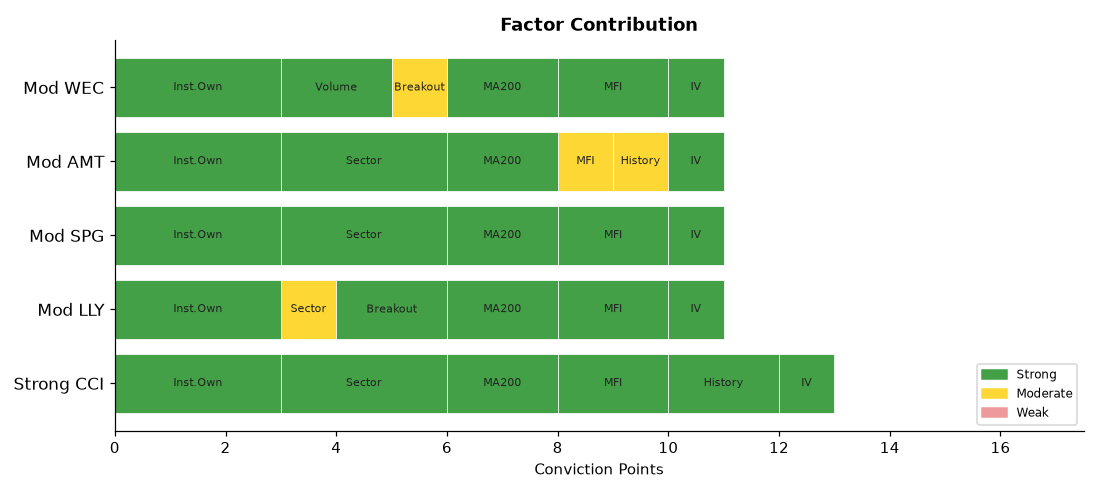
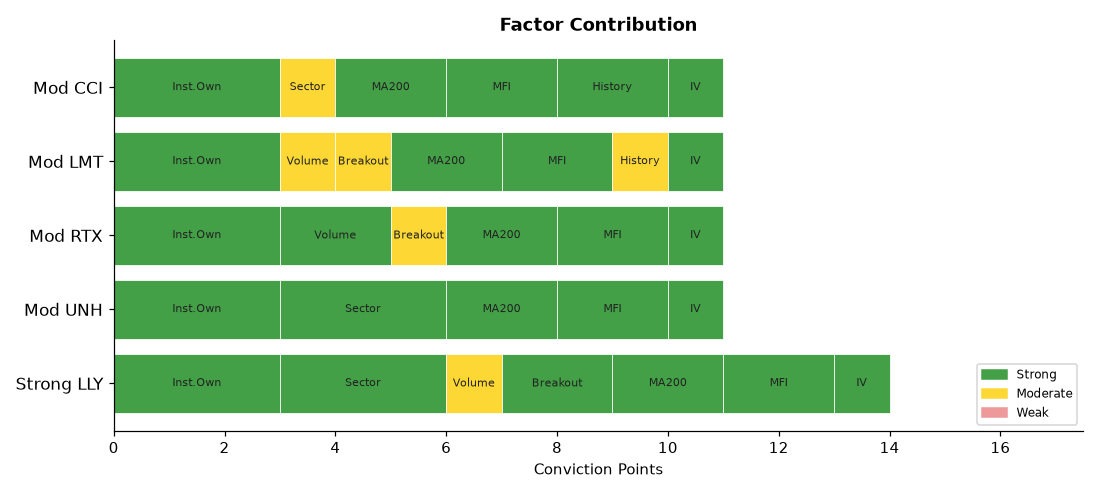
deploy: b7fadf5b06deb90e7ebb92f278722414bdd9750d

diff --git a/index.html b/index.html
@@ -4,7 +4,7 @@
   <meta charset="UTF-8">
   <meta name="viewport" content="width=device-width,initial-scale=1">
   <meta http-equiv="Cache-Control" content="no-cache,no-store,must-revalidate">
-  <title>Stock Breakout Screener — 2026-10-29 19:45</title>
+  <title>Stock Breakout Screener — 2026-10-29 21:42</title>
   <style>
     *{box-sizing:border-box;margin:0;padding:0}
     body{font-family:'Segoe UI',Arial,sans-serif;background:#f0f2f5;
@@ -34,7 +34,7 @@
 
 <div class="hdr">
   <h1>📈 Stock Breakout Screener</h1>
-  <p>Updated: 2026-10-29 19:45 UTC &nbsp;·&nbsp; Phase: Regular Market Hours &nbsp;·&nbsp;
+  <p>Updated: 2026-10-29 21:42 UTC &nbsp;·&nbsp; Phase: After-Hours (4:00–8:00 PM ET) &nbsp;·&nbsp;
      129 stocks screened &nbsp;·&nbsp; Top 5 by conviction score</p>
 </div>
 
@@ -60,16 +60,16 @@
           <div style="display:flex;align-items:center;gap:10px;
                       flex-wrap:wrap;margin-bottom:10px">
             <span style="font-size:22px">🟢</span>
-            <span style="font-size:19px;font-weight:700">1. CCI</span>
-            <span style="font-size:12px;color:#666">Real Estate</span>
+            <span style="font-size:19px;font-weight:700">1. LLY</span>
+            <span style="font-size:12px;color:#666">Healthcare</span>
             <span style="margin-left:auto;background:#1a237e;color:#fff;
                          padding:3px 12px;border-radius:12px;
                          font-size:13px;font-weight:600">
-              13/17
+              14/17
             </span>
           </div>
           <ul style="margin:0;padding-left:18px;font-size:13px;
-                     color:#333;line-height:1.8"><li style="margin:5px 0"><span style="background:#ffebee;color:#b71c1c;padding:2px 7px;border-radius:4px;font-size:11px;">❌</span> Volume: <b>0.7× average</b> — Above-average activity</li><li style="margin:5px 0"><span style="background:#ffebee;color:#b71c1c;padding:2px 7px;border-radius:4px;font-size:11px;">❌</span> Candle: close <b>$89.20</b> vs open <b>$89.00</b> (+0.2%) — regular market close</li><li style="margin:5px 0"><span style="background:#e8f5e9;color:#2e7d32;padding:2px 7px;border-radius:4px;font-size:11px;">✅</span> 200-Day MA: price <b>$89.20</b> vs MA <b>$79.06</b> — <b>✅ Above</b> long-term trend</li><li style="margin:5px 0"><span style="background:#e8f5e9;color:#2e7d32;padding:2px 7px;border-radius:4px;font-size:11px;">✅</span> Inst. ownership: <b>101.9%</b> · MFI: <b>60.0</b> · Market cap: <b>$38.0B</b></li><li style="margin:5px 0"><span style="background:#e8f5e9;color:#2e7d32;padding:2px 7px;border-radius:4px;font-size:11px;">✅</span> Last similar breakout: <b>Oct 09, 2026</b> → <b>+7.9%</b> over 10 trading days</li></ul>
+                     color:#333;line-height:1.8"><li style="margin:5px 0"><span style="background:#fffde7;color:#f57f17;padding:2px 7px;border-radius:4px;font-size:11px;">⚠</span> Volume: <b>1.6× average</b> — Above-average activity</li><li style="margin:5px 0"><span style="background:#e8f5e9;color:#2e7d32;padding:2px 7px;border-radius:4px;font-size:11px;">✅</span> Candle: close <b>$1373.70</b> vs open <b>$1332.73</b> (+3.1%) — regular market close</li><li style="margin:5px 0"><span style="background:#e8f5e9;color:#2e7d32;padding:2px 7px;border-radius:4px;font-size:11px;">✅</span> 200-Day MA: price <b>$1373.70</b> vs MA <b>$1151.21</b> — <b>✅ Above</b> long-term trend</li><li style="margin:5px 0"><span style="background:#e8f5e9;color:#2e7d32;padding:2px 7px;border-radius:4px;font-size:11px;">✅</span> Inst. ownership: <b>85.4%</b> · MFI: <b>71.4</b> · Market cap: <b>$1224.5B</b></li><li style="margin:5px 0"><span style="background:#ffebee;color:#b71c1c;padding:2px 7px;border-radius:4px;font-size:11px;">❌</span> Last similar breakout: <b>Jun 26, 2026</b> → <b>-2.2%</b> over 10 trading days</li></ul>
         </div>
         <div style="background:#fff;border:1px solid #ddd;border-radius:10px;
                     padding:16px 20px;margin-bottom:12px;
@@ -77,7 +77,7 @@
           <div style="display:flex;align-items:center;gap:10px;
                       flex-wrap:wrap;margin-bottom:10px">
             <span style="font-size:22px">🟡</span>
-            <span style="font-size:19px;font-weight:700">2. LLY</span>
+            <span style="font-size:19px;font-weight:700">2. UNH</span>
             <span style="font-size:12px;color:#666">Healthcare</span>
             <span style="margin-left:auto;background:#1a237e;color:#fff;
                          padding:3px 12px;border-radius:12px;
@@ -86,7 +86,7 @@
             </span>
           </div>
           <ul style="margin:0;padding-left:18px;font-size:13px;
-                     color:#333;line-height:1.8"><li style="margin:5px 0"><span style="background:#ffebee;color:#b71c1c;padding:2px 7px;border-radius:4px;font-size:11px;">❌</span> Volume: <b>1.2× average</b> — Above-average activity</li><li style="margin:5px 0"><span style="background:#e8f5e9;color:#2e7d32;padding:2px 7px;border-radius:4px;font-size:11px;">✅</span> Candle: close <b>$1373.16</b> vs open <b>$1332.73</b> (+3.0%) — regular market close</li><li style="margin:5px 0"><span style="background:#e8f5e9;color:#2e7d32;padding:2px 7px;border-radius:4px;font-size:11px;">✅</span> 200-Day MA: price <b>$1373.16</b> vs MA <b>$1148.84</b> — <b>✅ Above</b> long-term trend</li><li style="margin:5px 0"><span style="background:#e8f5e9;color:#2e7d32;padding:2px 7px;border-radius:4px;font-size:11px;">✅</span> Inst. ownership: <b>85.4%</b> · MFI: <b>70.5</b> · Market cap: <b>$1223.5B</b></li><li style="margin:5px 0"><span style="background:#ffebee;color:#b71c1c;padding:2px 7px;border-radius:4px;font-size:11px;">❌</span> Last similar breakout: <b>Jun 26, 2026</b> → <b>-2.2%</b> over 10 trading days</li></ul>
+                     color:#333;line-height:1.8"><li style="margin:5px 0"><span style="background:#ffebee;color:#b71c1c;padding:2px 7px;border-radius:4px;font-size:11px;">❌</span> Volume: <b>0.7× average</b> — Above-average activity</li><li style="margin:5px 0"><span style="background:#ffebee;color:#b71c1c;padding:2px 7px;border-radius:4px;font-size:11px;">❌</span> Candle: close <b>$410.91</b> vs open <b>$413.71</b> (-0.7%) — regular market close</li><li style="margin:5px 0"><span style="background:#e8f5e9;color:#2e7d32;padding:2px 7px;border-radius:4px;font-size:11px;">✅</span> 200-Day MA: price <b>$410.91</b> vs MA <b>$395.97</b> — <b>✅ Above</b> long-term trend</li><li style="margin:5px 0"><span style="background:#e8f5e9;color:#2e7d32;padding:2px 7px;border-radius:4px;font-size:11px;">✅</span> Inst. ownership: <b>89.6%</b> · MFI: <b>64.8</b> · Market cap: <b>$368.8B</b></li></ul>
         </div>
         <div style="background:#fff;border:1px solid #ddd;border-radius:10px;
                     padding:16px 20px;margin-bottom:12px;
@@ -94,7 +94,41 @@
           <div style="display:flex;align-items:center;gap:10px;
                       flex-wrap:wrap;margin-bottom:10px">
             <span style="font-size:22px">🟡</span>
-            <span style="font-size:19px;font-weight:700">3. SPG</span>
+            <span style="font-size:19px;font-weight:700">3. RTX</span>
+            <span style="font-size:12px;color:#666">Industrials</span>
+            <span style="margin-left:auto;background:#1a237e;color:#fff;
+                         padding:3px 12px;border-radius:12px;
+                         font-size:13px;font-weight:600">
+              11/17
+            </span>
+          </div>
+          <ul style="margin:0;padding-left:18px;font-size:13px;
+                     color:#333;line-height:1.8"><li style="margin:5px 0"><span style="background:#e8f5e9;color:#2e7d32;padding:2px 7px;border-radius:4px;font-size:11px;">✅</span> Volume: <b>2.3× average</b> — 🔥 Strong unusual activity</li><li style="margin:5px 0"><span style="background:#fffde7;color:#f57f17;padding:2px 7px;border-radius:4px;font-size:11px;">⚠</span> Candle: close <b>$199.40</b> vs open <b>$198.79</b> (+0.3%) — regular market close</li><li style="margin:5px 0"><span style="background:#e8f5e9;color:#2e7d32;padding:2px 7px;border-radius:4px;font-size:11px;">✅</span> 200-Day MA: price <b>$199.40</b> vs MA <b>$193.38</b> — <b>✅ Above</b> long-term trend</li><li style="margin:5px 0"><span style="background:#e8f5e9;color:#2e7d32;padding:2px 7px;border-radius:4px;font-size:11px;">✅</span> Inst. ownership: <b>81.6%</b> · MFI: <b>75.5</b> · Market cap: <b>$269.1B</b></li></ul>
+        </div>
+        <div style="background:#fff;border:1px solid #ddd;border-radius:10px;
+                    padding:16px 20px;margin-bottom:12px;
+                    box-shadow:0 2px 6px rgba(0,0,0,.07)">
+          <div style="display:flex;align-items:center;gap:10px;
+                      flex-wrap:wrap;margin-bottom:10px">
+            <span style="font-size:22px">🟡</span>
+            <span style="font-size:19px;font-weight:700">4. LMT</span>
+            <span style="font-size:12px;color:#666">Industrials</span>
+            <span style="margin-left:auto;background:#1a237e;color:#fff;
+                         padding:3px 12px;border-radius:12px;
+                         font-size:13px;font-weight:600">
+              11/17
+            </span>
+          </div>
+          <ul style="margin:0;padding-left:18px;font-size:13px;
+                     color:#333;line-height:1.8"><li style="margin:5px 0"><span style="background:#fffde7;color:#f57f17;padding:2px 7px;border-radius:4px;font-size:11px;">⚠</span> Volume: <b>1.6× average</b> — Above-average activity</li><li style="margin:5px 0"><span style="background:#fffde7;color:#f57f17;padding:2px 7px;border-radius:4px;font-size:11px;">⚠</span> Candle: close <b>$643.59</b> vs open <b>$639.66</b> (+0.6%) — regular market close</li><li style="margin:5px 0"><span style="background:#e8f5e9;color:#2e7d32;padding:2px 7px;border-radius:4px;font-size:11px;">✅</span> 200-Day MA: price <b>$643.59</b> vs MA <b>$536.89</b> — <b>✅ Above</b> long-term trend</li><li style="margin:5px 0"><span style="background:#e8f5e9;color:#2e7d32;padding:2px 7px;border-radius:4px;font-size:11px;">✅</span> Inst. ownership: <b>76.8%</b> · MFI: <b>81.0</b> · Market cap: <b>$148.7B</b></li><li style="margin:5px 0"><span style="background:#fffde7;color:#f57f17;padding:2px 7px;border-radius:4px;font-size:11px;">⚠</span> Last similar breakout: <b>Oct 26, 2026</b> → <b>+1.3%</b> over 10 trading days</li></ul>
+        </div>
+        <div style="background:#fff;border:1px solid #ddd;border-radius:10px;
+                    padding:16px 20px;margin-bottom:12px;
+                    box-shadow:0 2px 6px rgba(0,0,0,.07)">
+          <div style="display:flex;align-items:center;gap:10px;
+                      flex-wrap:wrap;margin-bottom:10px">
+            <span style="font-size:22px">🟡</span>
+            <span style="font-size:19px;font-weight:700">5. CCI</span>
             <span style="font-size:12px;color:#666">Real Estate</span>
             <span style="margin-left:auto;background:#1a237e;color:#fff;
                          padding:3px 12px;border-radius:12px;
@@ -103,41 +137,7 @@
             </span>
           </div>
           <ul style="margin:0;padding-left:18px;font-size:13px;
-                     color:#333;line-height:1.8"><li style="margin:5px 0"><span style="background:#ffebee;color:#b71c1c;padding:2px 7px;border-radius:4px;font-size:11px;">❌</span> Volume: <b>0.3× average</b> — Above-average activity</li><li style="margin:5px 0"><span style="background:#ffebee;color:#b71c1c;padding:2px 7px;border-radius:4px;font-size:11px;">❌</span> Candle: close <b>$216.43</b> vs open <b>$214.23</b> (+1.0%) — regular market close</li><li style="margin:5px 0"><span style="background:#e8f5e9;color:#2e7d32;padding:2px 7px;border-radius:4px;font-size:11px;">✅</span> 200-Day MA: price <b>$216.43</b> vs MA <b>$210.43</b> — <b>✅ Above</b> long-term trend</li><li style="margin:5px 0"><span style="background:#e8f5e9;color:#2e7d32;padding:2px 7px;border-radius:4px;font-size:11px;">✅</span> Inst. ownership: <b>95.8%</b> · MFI: <b>75.2</b> · Market cap: <b>$82.1B</b></li></ul>
-        </div>
-        <div style="background:#fff;border:1px solid #ddd;border-radius:10px;
-                    padding:16px 20px;margin-bottom:12px;
-                    box-shadow:0 2px 6px rgba(0,0,0,.07)">
-          <div style="display:flex;align-items:center;gap:10px;
-                      flex-wrap:wrap;margin-bottom:10px">
-            <span style="font-size:22px">🟡</span>
-            <span style="font-size:19px;font-weight:700">4. AMT</span>
-            <span style="font-size:12px;color:#666">Real Estate</span>
-            <span style="margin-left:auto;background:#1a237e;color:#fff;
-                         padding:3px 12px;border-radius:12px;
-                         font-size:13px;font-weight:600">
-              11/17
-            </span>
-          </div>
-          <ul style="margin:0;padding-left:18px;font-size:13px;
-                     color:#333;line-height:1.8"><li style="margin:5px 0"><span style="background:#ffebee;color:#b71c1c;padding:2px 7px;border-radius:4px;font-size:11px;">❌</span> Volume: <b>0.4× average</b> — Above-average activity</li><li style="margin:5px 0"><span style="background:#ffebee;color:#b71c1c;padding:2px 7px;border-radius:4px;font-size:11px;">❌</span> Candle: close <b>$186.39</b> vs open <b>$185.81</b> (+0.3%) — regular market close</li><li style="margin:5px 0"><span style="background:#e8f5e9;color:#2e7d32;padding:2px 7px;border-radius:4px;font-size:11px;">✅</span> 200-Day MA: price <b>$186.39</b> vs MA <b>$173.88</b> — <b>✅ Above</b> long-term trend</li><li style="margin:5px 0"><span style="background:#e8f5e9;color:#2e7d32;padding:2px 7px;border-radius:4px;font-size:11px;">✅</span> Inst. ownership: <b>97.4%</b> · MFI: <b>52.4</b> · Market cap: <b>$86.4B</b></li><li style="margin:5px 0"><span style="background:#fffde7;color:#f57f17;padding:2px 7px;border-radius:4px;font-size:11px;">⚠</span> Last similar breakout: <b>Oct 09, 2026</b> → <b>+3.7%</b> over 10 trading days</li></ul>
-        </div>
-        <div style="background:#fff;border:1px solid #ddd;border-radius:10px;
-                    padding:16px 20px;margin-bottom:12px;
-                    box-shadow:0 2px 6px rgba(0,0,0,.07)">
-          <div style="display:flex;align-items:center;gap:10px;
-                      flex-wrap:wrap;margin-bottom:10px">
-            <span style="font-size:22px">🟡</span>
-            <span style="font-size:19px;font-weight:700">5. WEC</span>
-            <span style="font-size:12px;color:#666">Utilities</span>
-            <span style="margin-left:auto;background:#1a237e;color:#fff;
-                         padding:3px 12px;border-radius:12px;
-                         font-size:13px;font-weight:600">
-              11/17
-            </span>
-          </div>
-          <ul style="margin:0;padding-left:18px;font-size:13px;
-                     color:#333;line-height:1.8"><li style="margin:5px 0"><span style="background:#e8f5e9;color:#2e7d32;padding:2px 7px;border-radius:4px;font-size:11px;">✅</span> Volume: <b>2.2× average</b> — 🔥 Strong unusual activity</li><li style="margin:5px 0"><span style="background:#fffde7;color:#f57f17;padding:2px 7px;border-radius:4px;font-size:11px;">⚠</span> Candle: close <b>$114.72</b> vs open <b>$114.17</b> (+0.5%) — regular market close</li><li style="margin:5px 0"><span style="background:#e8f5e9;color:#2e7d32;padding:2px 7px;border-radius:4px;font-size:11px;">✅</span> 200-Day MA: price <b>$114.72</b> vs MA <b>$109.38</b> — <b>✅ Above</b> long-term trend</li><li style="margin:5px 0"><span style="background:#e8f5e9;color:#2e7d32;padding:2px 7px;border-radius:4px;font-size:11px;">✅</span> Inst. ownership: <b>87.9%</b> · MFI: <b>81.5</b> · Market cap: <b>$37.4B</b></li></ul>
+                     color:#333;line-height:1.8"><li style="margin:5px 0"><span style="background:#ffebee;color:#b71c1c;padding:2px 7px;border-radius:4px;font-size:11px;">❌</span> Volume: <b>1.0× average</b> — Above-average activity</li><li style="margin:5px 0"><span style="background:#ffebee;color:#b71c1c;padding:2px 7px;border-radius:4px;font-size:11px;">❌</span> Candle: close <b>$88.83</b> vs open <b>$89.00</b> (-0.2%) — regular market close</li><li style="margin:5px 0"><span style="background:#e8f5e9;color:#2e7d32;padding:2px 7px;border-radius:4px;font-size:11px;">✅</span> 200-Day MA: price <b>$88.83</b> vs MA <b>$79.02</b> — <b>✅ Above</b> long-term trend</li><li style="margin:5px 0"><span style="background:#e8f5e9;color:#2e7d32;padding:2px 7px;border-radius:4px;font-size:11px;">✅</span> Inst. ownership: <b>101.9%</b> · MFI: <b>60.7</b> · Market cap: <b>$37.8B</b></li><li style="margin:5px 0"><span style="background:#e8f5e9;color:#2e7d32;padding:2px 7px;border-radius:4px;font-size:11px;">✅</span> Last similar breakout: <b>Oct 09, 2026</b> → <b>+7.9%</b> over 10 trading days</li></ul>
         </div>
 
 
@@ -168,92 +168,92 @@
   
         <tr>
           <td style="font-weight:700;text-align:left;padding-left:10px">
-            🟢 CCI</td>
-          <td style="background:#ffcdd2">0.7×</td>
-          <td style="background:#ffcdd2">+0.2%</td>
-          <td style="background:#c8e6c9">
-            ▲ Above</td>
-          <td style="background:#c8e6c9">
-            101.9%</td>
-          <td style="background:#c8e6c9">
-            60.0</td>
-          <td style="background:#c8e6c9">Real Estate</td>
-          <td style="background:#c8e6c9">
-            75.7%</td>
-          <td style="background:#c8e6c9">
-            +7.9%</td>
-          <td style="font-weight:800;font-size:15px">13/17</td>
-        </tr>
-        <tr>
-          <td style="font-weight:700;text-align:left;padding-left:10px">
-            🟡 LLY</td>
-          <td style="background:#ffcdd2">1.2×</td>
-          <td style="background:#c8e6c9">+3.0%</td>
+            🟢 LLY</td>
+          <td style="background:#fff9c4">1.6×</td>
+          <td style="background:#c8e6c9">+3.1%</td>
           <td style="background:#c8e6c9">
             ▲ Above</td>
           <td style="background:#c8e6c9">
             85.4%</td>
           <td style="background:#c8e6c9">
-            70.5</td>
-          <td style="background:#fff9c4">Healthcare</td>
+            71.4</td>
+          <td style="background:#c8e6c9">Healthcare</td>
           <td style="background:#c8e6c9">
-            98.9%</td>
+            98.1%</td>
           <td style="background:#ffcdd2">
             -2.2%</td>
-          <td style="font-weight:800;font-size:15px">11/17</td>
+          <td style="font-weight:800;font-size:15px">14/17</td>
         </tr>
         <tr>
           <td style="font-weight:700;text-align:left;padding-left:10px">
-            🟡 SPG</td>
-          <td style="background:#ffcdd2">0.3×</td>
-          <td style="background:#ffcdd2">+1.0%</td>
+            🟡 UNH</td>
+          <td style="background:#ffcdd2">0.7×</td>
+          <td style="background:#ffcdd2">-0.7%</td>
           <td style="background:#c8e6c9">
             ▲ Above</td>
           <td style="background:#c8e6c9">
-            95.8%</td>
+            89.6%</td>
           <td style="background:#c8e6c9">
-            75.2</td>
-          <td style="background:#c8e6c9">Real Estate</td>
+            64.8</td>
+          <td style="background:#c8e6c9">Healthcare</td>
           <td style="background:#c8e6c9">
-            35.1%</td>
+            113.1%</td>
           <td style="background:#ffcdd2">
             N/A</td>
           <td style="font-weight:800;font-size:15px">11/17</td>
         </tr>
         <tr>
           <td style="font-weight:700;text-align:left;padding-left:10px">
-            🟡 AMT</td>
-          <td style="background:#ffcdd2">0.4×</td>
-          <td style="background:#ffcdd2">+0.3%</td>
+            🟡 RTX</td>
+          <td style="background:#c8e6c9">2.3×</td>
+          <td style="background:#fff9c4">+0.3%</td>
           <td style="background:#c8e6c9">
             ▲ Above</td>
           <td style="background:#c8e6c9">
-            97.4%</td>
-          <td style="background:#fff9c4">
-            52.4</td>
-          <td style="background:#c8e6c9">Real Estate</td>
+            81.6%</td>
           <td style="background:#c8e6c9">
-            45.1%</td>
-          <td style="background:#fff9c4">
-            +3.7%</td>
+            75.5</td>
+          <td style="background:#ffcdd2">Industrials</td>
+          <td style="background:#c8e6c9">
+            126.4%</td>
+          <td style="background:#ffcdd2">
+            N/A</td>
           <td style="font-weight:800;font-size:15px">11/17</td>
         </tr>
         <tr>
           <td style="font-weight:700;text-align:left;padding-left:10px">
-            🟡 WEC</td>
-          <td style="background:#c8e6c9">2.2×</td>
-          <td style="background:#fff9c4">+0.5%</td>
+            🟡 LMT</td>
+          <td style="background:#fff9c4">1.6×</td>
+          <td style="background:#fff9c4">+0.6%</td>
           <td style="background:#c8e6c9">
             ▲ Above</td>
           <td style="background:#c8e6c9">
-            87.9%</td>
+            76.8%</td>
           <td style="background:#c8e6c9">
-            81.5</td>
-          <td style="background:#ffcdd2">Utilities</td>
+            81.0</td>
+          <td style="background:#ffcdd2">Industrials</td>
           <td style="background:#c8e6c9">
-            39.3%</td>
-          <td style="background:#ffcdd2">
-            N/A</td>
+            151.8%</td>
+          <td style="background:#fff9c4">
+            +1.3%</td>
+          <td style="font-weight:800;font-size:15px">11/17</td>
+        </tr>
+        <tr>
+          <td style="font-weight:700;text-align:left;padding-left:10px">
+            🟡 CCI</td>
+          <td style="background:#ffcdd2">1.0×</td>
+          <td style="background:#ffcdd2">-0.2%</td>
+          <td style="background:#c8e6c9">
+            ▲ Above</td>
+          <td style="background:#c8e6c9">
+            101.9%</td>
+          <td style="background:#c8e6c9">
+            60.7</td>
+          <td style="background:#fff9c4">Real Estate</td>
+          <td style="background:#c8e6c9">
+            64.2%</td>
+          <td style="background:#c8e6c9">
+            +7.9%</td>
           <td style="font-weight:800;font-size:15px">11/17</td>
         </tr>
 </table>
@@ -277,58 +277,58 @@
       
         <tr>
           <td style="text-align:left;padding-left:10px;font-weight:600">
-            #1 Real Estate</td>
+            #1 Healthcare</td>
           <td style="background:#e8f5e9;color:#2e7d32;font-weight:700">+2.40%</td>
         </tr>
         <tr>
           <td style="text-align:left;padding-left:10px;font-weight:600">
-            #2 Healthcare</td>
-          <td style="background:#e8f5e9;color:#2e7d32;font-weight:700">+2.30%</td>
+            #2 Real Estate</td>
+          <td style="background:#e8f5e9;color:#2e7d32;font-weight:700">+2.21%</td>
         </tr>
         <tr>
           <td style="text-align:left;padding-left:10px;font-weight:600">
             #3 Consumer Stpl</td>
-          <td style="background:#e8f5e9;color:#2e7d32;font-weight:700">+1.58%</td>
+          <td style="background:#e8f5e9;color:#2e7d32;font-weight:700">+1.54%</td>
         </tr>
         <tr>
           <td style="text-align:left;padding-left:10px;font-weight:600">
             #4 Utilities</td>
-          <td style="background:#e8f5e9;color:#2e7d32;font-weight:700">+1.49%</td>
+          <td style="background:#e8f5e9;color:#2e7d32;font-weight:700">+1.53%</td>
         </tr>
         <tr>
           <td style="text-align:left;padding-left:10px;font-weight:600">
             #5 Financials</td>
-          <td style="background:#e8f5e9;color:#2e7d32;font-weight:700">+1.38%</td>
+          <td style="background:#e8f5e9;color:#2e7d32;font-weight:700">+1.44%</td>
         </tr>
         <tr>
           <td style="text-align:left;padding-left:10px;font-weight:600">
             #6 Materials</td>
-          <td style="background:#e8f5e9;color:#2e7d32;font-weight:700">+1.16%</td>
+          <td style="background:#e8f5e9;color:#2e7d32;font-weight:700">+1.29%</td>
         </tr>
         <tr>
           <td style="text-align:left;padding-left:10px;font-weight:600">
-            #7 Consumer Disc</td>
-          <td style="background:#e8f5e9;color:#2e7d32;font-weight:700">+0.83%</td>
+            #7 Industrials</td>
+          <td style="background:#e8f5e9;color:#2e7d32;font-weight:700">+0.97%</td>
         </tr>
         <tr>
           <td style="text-align:left;padding-left:10px;font-weight:600">
-            #8 Industrials</td>
-          <td style="background:#e8f5e9;color:#2e7d32;font-weight:700">+0.69%</td>
+            #8 Consumer Disc</td>
+          <td style="background:#e8f5e9;color:#2e7d32;font-weight:700">+0.75%</td>
         </tr>
         <tr>
           <td style="text-align:left;padding-left:10px;font-weight:600">
             #9 Energy</td>
-          <td style="background:#ffebee;color:#c62828;font-weight:700">-0.14%</td>
+          <td style="background:#e8f5e9;color:#2e7d32;font-weight:700">+0.38%</td>
         </tr>
         <tr>
           <td style="text-align:left;padding-left:10px;font-weight:600">
             #10 Technology</td>
-          <td style="background:#ffebee;color:#c62828;font-weight:700">-1.70%</td>
+          <td style="background:#ffebee;color:#c62828;font-weight:700">-1.18%</td>
         </tr>
         <tr>
           <td style="text-align:left;padding-left:10px;font-weight:600">
             #11 Comm. Services</td>
-          <td style="background:#ffebee;color:#c62828;font-weight:700">-1.98%</td>
+          <td style="background:#ffebee;color:#c62828;font-weight:700">-1.87%</td>
         </tr>
     </table>
   </div>
@@ -367,7 +367,7 @@
         <li><b>Scoring weights:</b>
             Inst.Own(3) · Sector(3) · Volume(2) · Breakout(2) ·
             MA200(2) · MFI(2) · History(2) · IV(1) = 17pts max</li>
-        <li><b>Run time:</b> 2026-10-29 19:45 UTC — Market phase: Regular Market Hours</li>
+        <li><b>Run time:</b> 2026-10-29 21:42 UTC — Market phase: After-Hours (4:00–8:00 PM ET)</li>
       </ul>
     </div>
 
